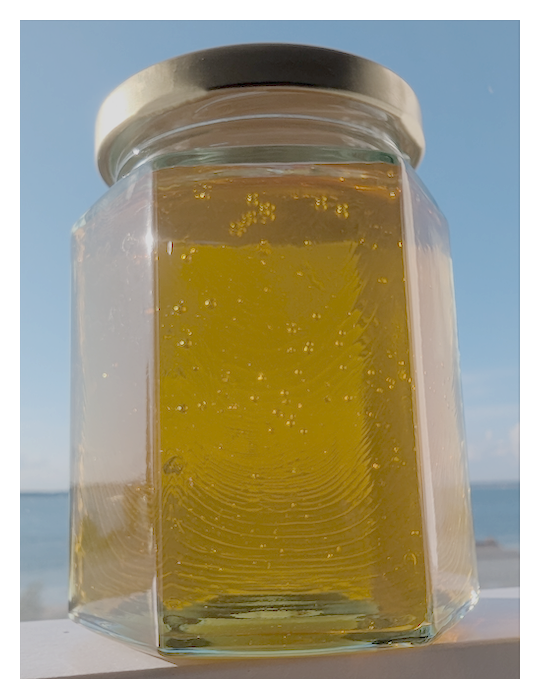
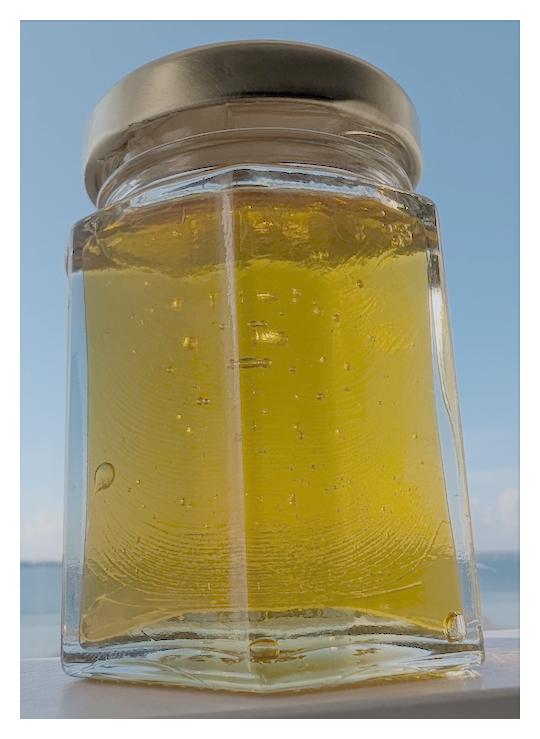
COU-78 Update jars and prices

diff --git a/docs/index.md b/docs/index.md
@@ -7,34 +7,38 @@ header.page-header {
 
 # Wight Gold Honey
 
+* [Contact us](/contact/)
+
 Organic Honey produced in Cowes on the Isle of Wight in the South of England.
 
-![87g and 250g Organic Honey](images/87and250.png "87g and 250g jars")
+We use [Flow Hives](https://uk.honeyflow.com/) which are developed by an Australian father and son team to make life easier for the bees and the apiarist.
+
+This means we harvest our honey directly from the hive frames into jars without disturbing the bees or needing to remove frames, cap them and spin the honey out.
+
+The Flow Hive design is to have preformed hexagons in the honey super (top box) which the bees use to store honey. When the frame is full and the bees have capped off (sealed the comb with wax) we can then attach a short pipe to the back of the frame via an access hatch, twist a 'key' in the top of the frame which splits all the cells in the frame, meaning the honey flows to the bottom and out of the back of the frame directly into a jar.
+
+![250g and 500g Organic Honey](images/250and500.png "250g and 500g jars")
 
 We have two jar sizes:
+
+## 500g Organic Honey
+
+![500g Organic Honey](images/500g.png "500g")
+
+### &pound;8
+
+Pay by PayPal: [https://paypal.me/iowhoney/8](https://paypal.me/iowhoney/8)
+
+or pay on delivery
 
 ## 250g Organic Honey
 
 ![250g Organic Honey](images/250g.png "250g")
 
-### &pound;6
+### &pound;14
 
-Pay by PayPal: [https://paypal.me/iowhoney/6](https://paypal.me/iowhoney/6)
+Pay by PayPal: [https://paypal.me/iowhoney/14](https://paypal.me/iowhoney/14)
 
-or scan the QR code:
-
-![[250g Organic Honey](https://paypal.me/iowhoney/6)](images/paypal_qr_iowhoney-6.png "250g https://paypal.me/iowhoney/6")
-
-## 87g/2oz Organic Honey
-
-![87g Organic Honey](images/87g.png "87g")
-
-### &pound;4
-
-Pay by PayPal: [https://paypal.me/iowhoney/4](https://paypal.me/iowhoney/4)
-
-or scan the QR code:
-
-![[87g Organic Honey](https://paypal.me/iowhoney/4)](images/paypal_qr_iowhoney-4.png "87g https://paypal.me/iowhoney/4")
+or pay on delivery
 
 Delivery by arrangement: [[email redacted]](mailto:[email redacted])

diff --git a/README.md b/README.md
@@ -19,4 +19,6 @@ Configure a custom domain via repository's Settings/Pages tab. Documentation is 
 
 ## Theme
 
-Originally using [minima theme](https://github.com/jekyll/minima) but it was a bit 'single column' so swithced to [minimal-mistakes](https://mmistakes.github.io/minimal-mistakes/)
+Originally using [minima theme](https://github.com/jekyll/minima) but it was a bit 'single column' so swithched to [minimal-mistakes](https://mmistakes.github.io/minimal-mistakes/)
+
+See the [Structure](https://mmistakes.github.io/minimal-mistakes/docs/structure/) page for how to lay out the site.

diff --git a/docs/contact/index.md b/docs/contact/index.md
@@ -1,0 +1,3 @@
+# Contact Wight Gold Honey
+
+To place an order, ask questions or get in touch for any other reason please contact us via email: [[email redacted]](mailto:[email redacted]).